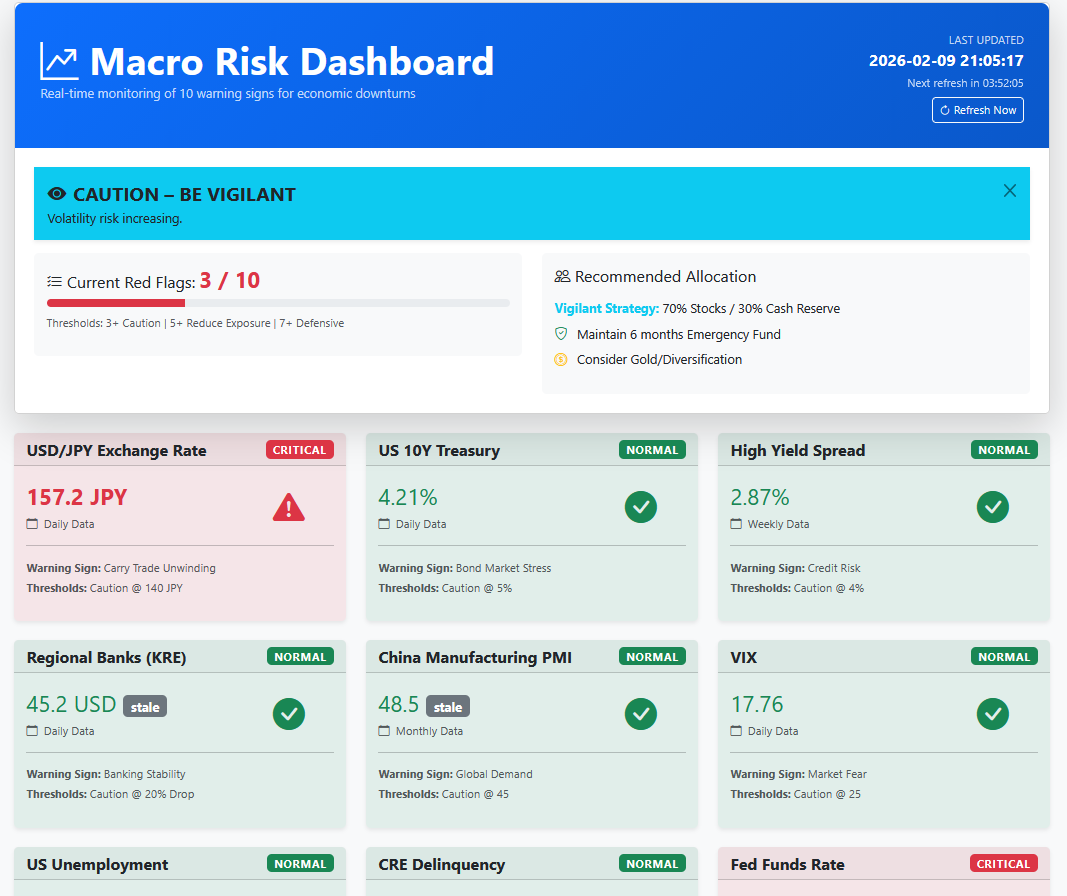
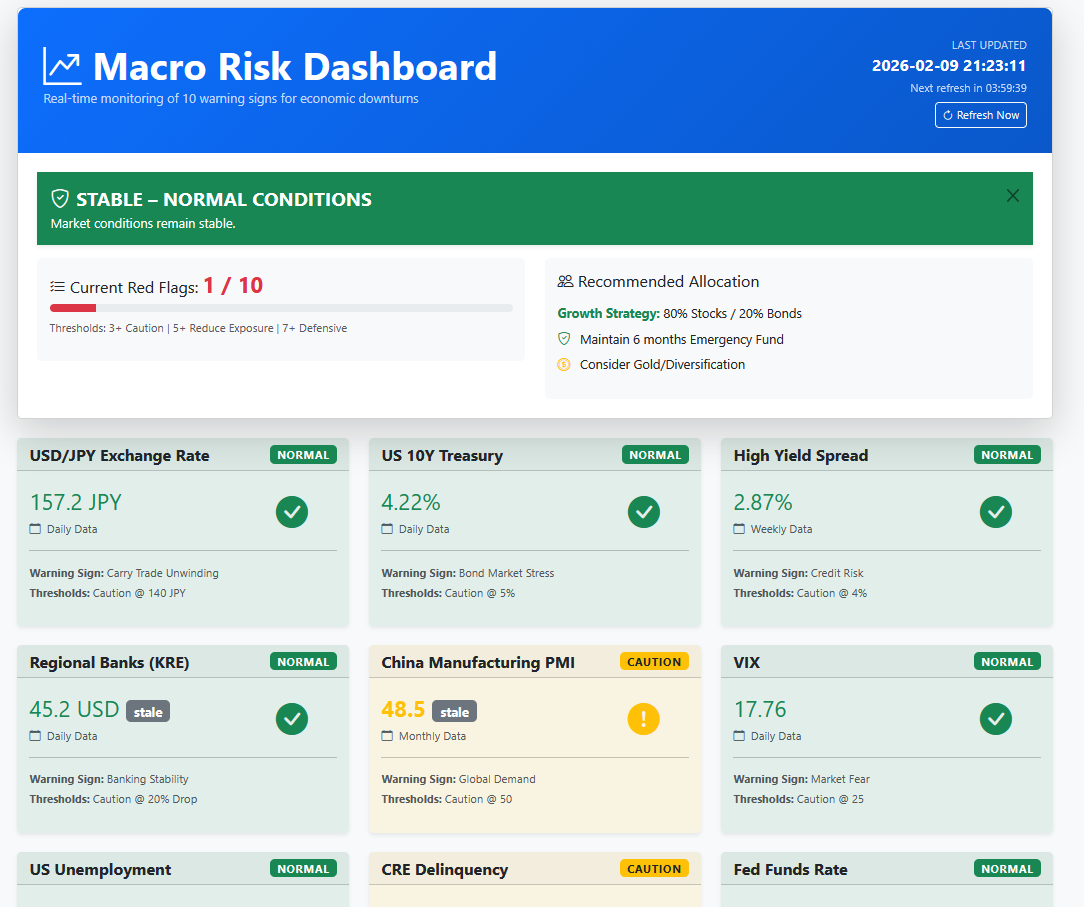
Updates to logic and screenshot.

diff --git a/index.php b/index.php
@@ -165,7 +165,7 @@ $indicators = [
     ],
     'CHINA_PMI' => [
         'name'=>'China Manufacturing PMI','current'=>48.5,
-        'threshold_caution'=>45,'threshold_fear'=>40,'threshold_crisis'=>35,
+        'threshold_caution'=>50,'threshold_fear'=>45,'threshold_crisis'=>40,
         'freq'=>'Monthly','desc'=>'Global Demand'
     ],
     'VIX' => [
@@ -180,7 +180,7 @@ $indicators = [
     ],
     'CRE_DELINQUENCY' => [
         'name'=>'CRE Delinquency','current'=>1.57,
-        'threshold_caution'=>3,'threshold_fear'=>7.29,'threshold_crisis'=>10,
+        'threshold_caution'=>2,'threshold_fear'=>3,'threshold_crisis'=>5,
         'freq'=>'Quarterly','desc'=>'Commercial Property Stress'
     ],
     'FED_FUNDS' => [
@@ -191,7 +191,7 @@ $indicators = [
     'BUF_FITZ' => [
         'name'=>'Buffett Indicator','current'=>221,
         'threshold_caution'=>150,'threshold_fear'=>200,'threshold_crisis'=>250,
-        'freq'=>'Quarterly','desc'=>'Market Valuation'
+        'freq'=>'Monthly','desc'=>'Market Valuation'
     ],
 ];
 
@@ -212,13 +212,16 @@ foreach ($indicators as $key => $cfg) {
     $status = 'Green';
 
     if ($key === 'KRE') {
+        // KRE: percentage drop from baseline (lower price = worse)
         $drop = (($cfg['baseline'] - $value) / $cfg['baseline']) * 100;
         if ($drop >= 30) $status = 'Red';
         elseif ($drop >= 20) $status = 'Orange';
-    } elseif ($key === 'CHINA_PMI') {
-        if ($value < $cfg['threshold_fear']) $status = 'Red';
-        elseif ($value < $cfg['threshold_caution']) $status = 'Orange';
+    } elseif (in_array($key, ['JPY_USD', 'FED_FUNDS', 'CHINA_PMI'])) {
+        // Inverse indicators: lower value = worse
+        if ($value <= $cfg['threshold_fear']) $status = 'Red';
+        elseif ($value <= $cfg['threshold_caution']) $status = 'Orange';
     } else {
+        // Standard indicators: higher value = worse
         if ($value >= $cfg['threshold_fear']) $status = 'Red';
         elseif ($value >= $cfg['threshold_caution']) $status = 'Orange';
     }
